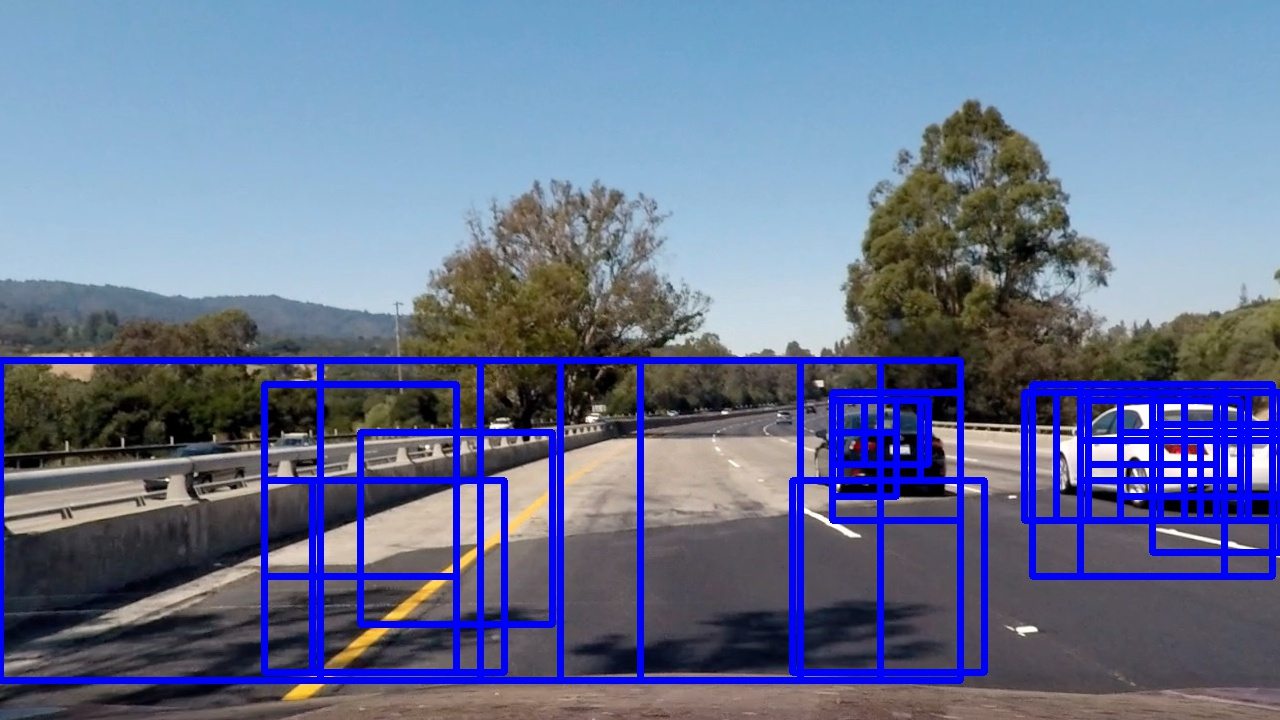
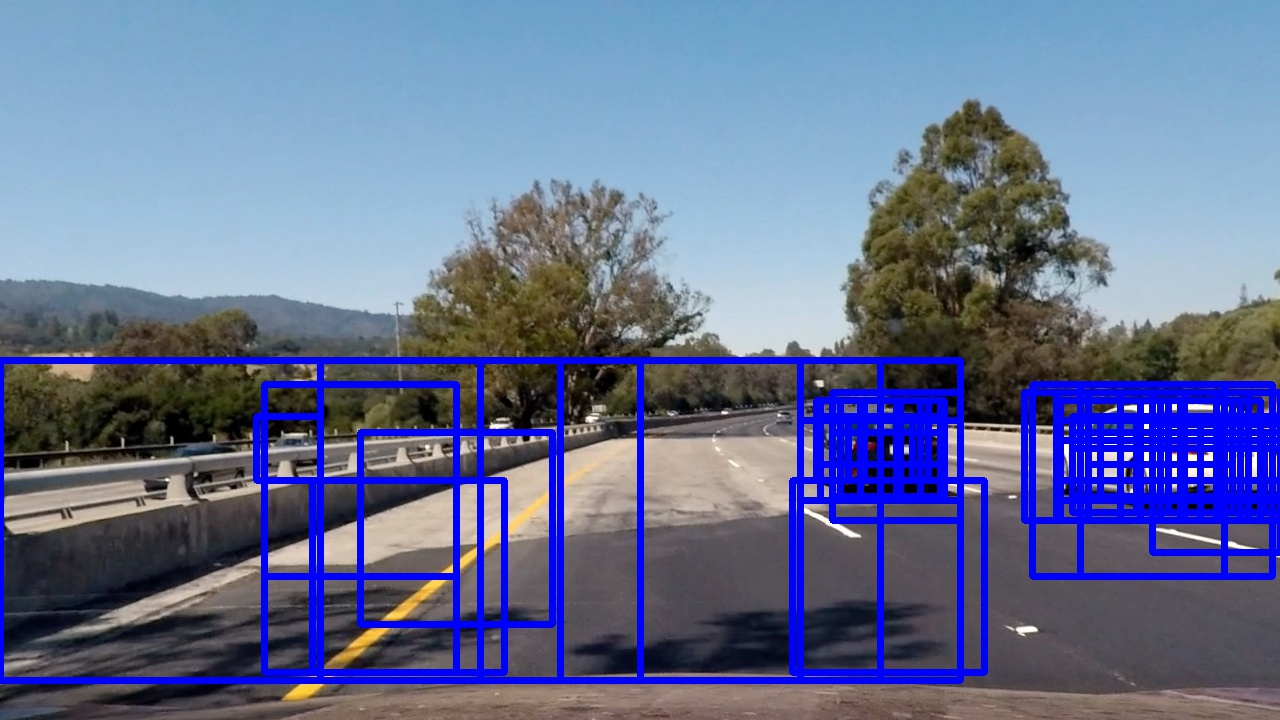
Update all slide window overlap ratio to 0.75

Changed region(s): [[0.8125, 0.55, 1.0, 0.7333], [0.625, 0.55, 0.75, 0.7028], [0.1875, 0.55, 0.25, 0.6722]]

diff --git a/py-src/p05_04_determine_slide_window.py b/py-src/p05_04_determine_slide_window.py
@@ -64,8 +64,8 @@ def get_window_metrics(y_start=360):
         (320, [0, 1280], [y_start, y_start + 320], 0.75),
         (192, [24, 1280], [y_start + 24, y_start + 312], 0.75),
         (128, [0, 1280], [y_start + 32, y_start + 288], 0.75),
-        (80, [0, 1280], [y_start + 40, y_start + 240], 0.5),
-        (64, [0, 1280], [y_start + 40, y_start + 168], 0.5),
+        (80, [0, 1280], [y_start + 40, y_start + 240], 0.75),
+        (64, [0, 1280], [y_start + 40, y_start + 168], 0.75),
     ]
     return window_metrics
 
